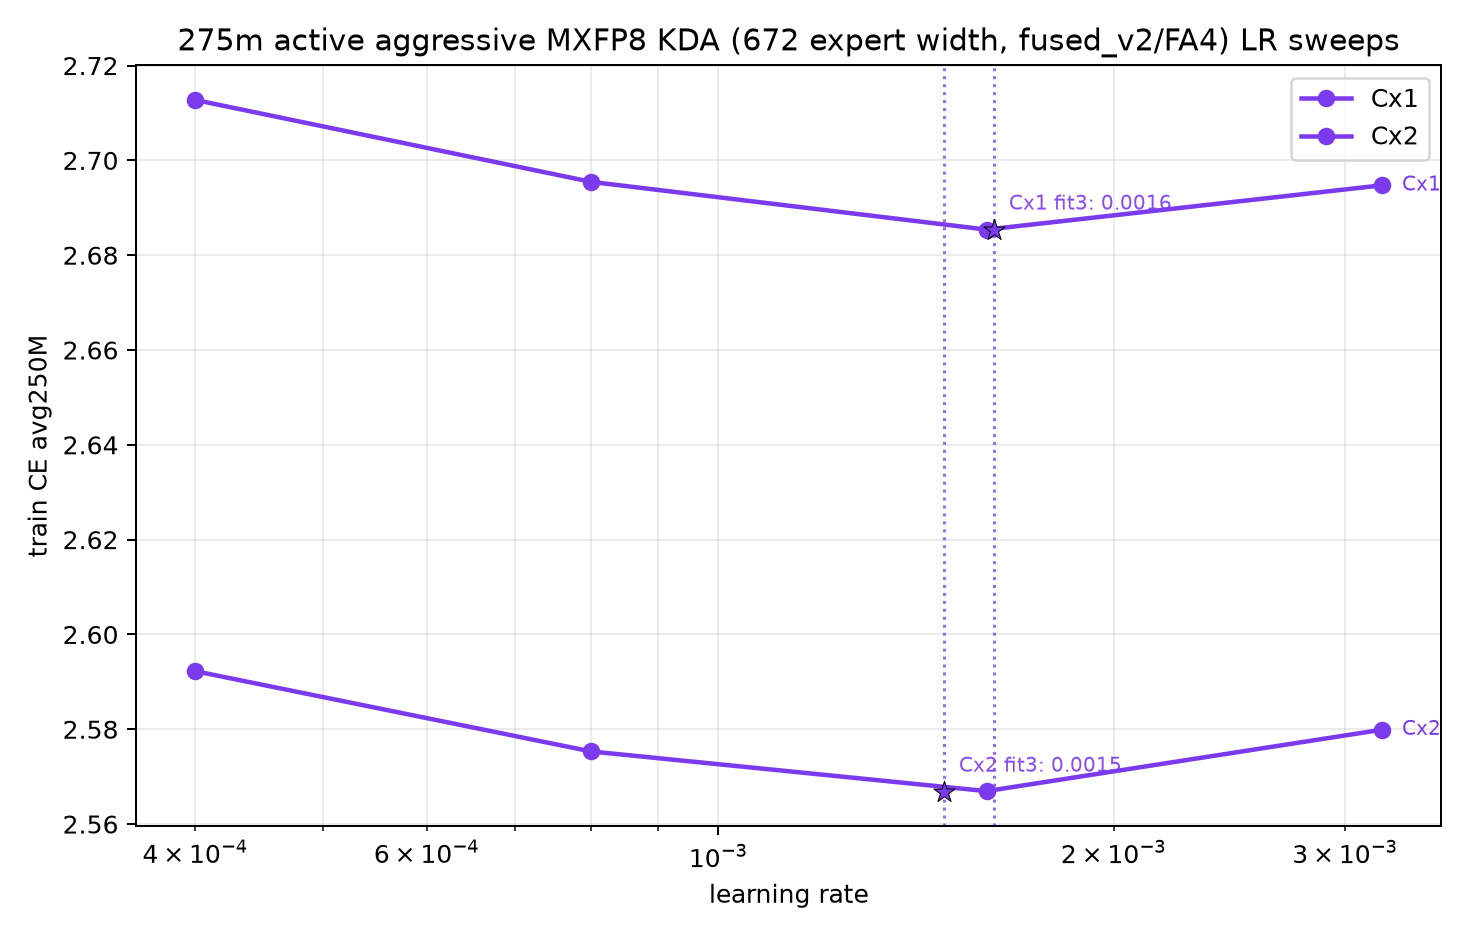
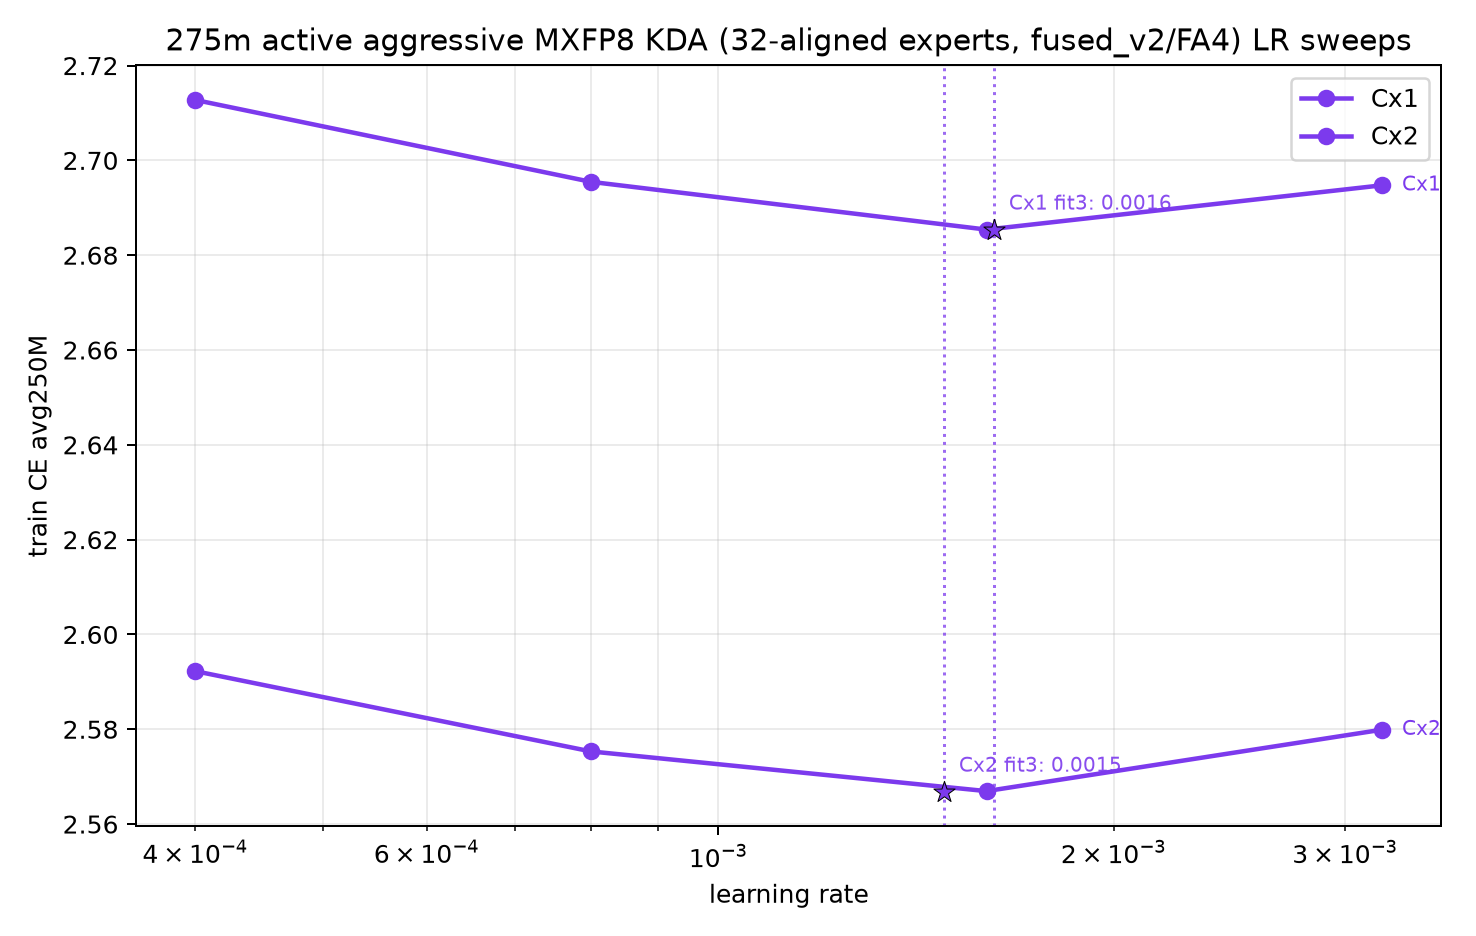
Record 480M MXFP8 production launch

Changed region(s): [[0.0935, 0.031, 0.9661, 0.062]]

diff --git a/src/scripts/train/jacobm_olmoe_ladder/v2/RUNS.md b/src/scripts/train/jacobm_olmoe_ladder/v2/RUNS.md
@@ -8,7 +8,7 @@ job IDs and W&B IDs once they exist. Detailed migration-era DDP jobs remain in
 
 Rows are updated as their corresponding collectors run; detailed sections
 retain the full launch and retry history. The canonical GDN2/KDA, new KDA
-transfer, MXFP8, and validation rows were refreshed at 2026-07-28 05:53 UTC.
+transfer, MXFP8, and validation rows were refreshed at 2026-07-28 05:56 UTC.
 
 | Stage | Family / cell | State | Progress / result | Current W&B |
 |---|---|---|---|---|
@@ -34,6 +34,7 @@ transfer, MXFP8, and validation rows were refreshed at 2026-07-28 05:53 UTC.
 | pretraining | canonical KDA 480M stability transfer | 4/4 finished | Cx1/2/4/8 strict final-250M CEs are `2.517826`, `2.412884`, `2.323228`, and `2.237558` | [launches](#canonical-kda-480m-stability-transfer) |
 | pretraining | KDA `expand_v=2`, negative-eigenvalue transfer (275M/480M/810M/1.2B) | 11 finished / 5 running | 810M Cx4 finished at strict final-250M CE `2.158207`; 810M Cx8 and all four balanced 1.2B rowwise jobs are running, with no failures in this KDA family | [results](results/pretraining/canonical_gdn2_kda/kda_ev2_neg_scale_results.md) / [launches](#kda-expand_v2-negative-eigenvalue-transfer) |
 | pretraining | aggressive MXFP8 KDA 275M LR sweep | Cx1/Cx2 8/8 finished; Cx4/Cx8 8 running | Observed bests are `2.685399 @ 1.6e-3` and `2.566948 @ 1.6e-3` for Cx1/Cx2; the best-of plot retains finished BF16 KDA scale points across all four model panels while pending cells remain explicit | [results](results/pretraining/kda_mxfp8/results.md) / [work](https://beaker.org/orgs/ai2/workspaces/OLMo-3-moe-experiments/work/01KYJPTZ3J4VHGBH0FSVAQRDGC) |
+| pretraining | aggressive MXFP8 KDA 480M transferred-LR continuation | 4/4 submitted | Cx1/Cx2/Cx4 are running; the two-node Cx8 cell is waiting for both replicas. The exact-name plot registry already contains all four runs. | [launches](#480m-aggressive-mxfp8-kda-transferred-lr-continuation) |
 | throughput | aggressive MXFP8 KDA 480M qualification | 2/2 finished | MB8/8-GPU: 192.7 TFLOPs/GPU, 69.8K TPS/GPU, 146.6/193.2 GiB active/reserved; MB6/16-GPU: 132.5 TFLOPs/GPU, 48.0K TPS/GPU, 111.1/155.7 GiB; zero skipped steps | [one node](https://beaker.org/orgs/ai2/workspaces/OLMo-3-moe-experiments/work/01KYKK27K7N1MVV702AKJ2DST8) / [two nodes](https://beaker.org/orgs/ai2/workspaces/OLMo-3-moe-experiments/work/01KYKK2A58MK03ANV6GAAZPAVG) |
 | diagnostic | GDN2 production-shape PyTorch reference 2x2 | finished | All four `expand_v`/negative-eigenvalue cells passed forward, final-state, backward, packed-document, and recompute/retain comparisons | [work](https://beaker.org/orgs/ai2/workspaces/OLMo-3-moe-experiments/work/01KYBY8DXT5BVM85WYKAT5TXQN) |
 | diagnostic | Matched KDA/GDN2 numerical audit | finished | All 40 one/four-chunk output/state comparisons passed; GDN2 is broadly KDA-like, with localized 3.80% `A_log` relative-L2 error at T256/V256/negative eigvals | [work](https://beaker.org/orgs/ai2/workspaces/OLMo-3-moe-experiments/work/01KYBZX8MHJ611ZSJD43SYS9HZ) / [results](results/diagnostics/matched_kda_gdn2_numerics.md) |
@@ -1112,6 +1113,38 @@ gates, and audited larger-size configurations are recorded in
 [`MXFP8_LADDER.md`](MXFP8_LADDER.md). Add exact W&B IDs here after task
 initialization and use the dedicated MXFP8 plotting family; do not mix these
 runs into the existing BF16 KDA registry by broad display-name matching.
+
+## 480M aggressive MXFP8 KDA transferred-LR continuation
+
+- Model variant: `geometry_matched_kda_ev2_neg_nope_gated_mxfp8_aligned`
+- Manifest:
+  [`launchers/pretraining/manifests/480m_kda_aggressive_mxfp8_full.yaml`](launchers/pretraining/manifests/480m_kda_aggressive_mxfp8_full.yaml)
+- Submission ledger:
+  [`launchers/pretraining/generated/480m_kda_aggressive_mxfp8_full_submissions.json`](launchers/pretraining/generated/480m_kda_aggressive_mxfp8_full_submissions.json)
+- Source commit: `785a87cf0aba6f12d81bf1d7b37b11cb49e6f9ab`
+- Scheduling: urgent unallocated Holmes B300s, `minRuntime: 0m`,
+  nonpreemptible, auto-resuming
+- Precision and architecture: KDA `expand_v=2`, negative eigenvalues, NoPE,
+  gated full attention, EP1, 832-wide aligned experts, rowwise MXFP8 on every
+  shared/routed FFN, MXFP8 QKV/output projections, `moe_fused_v2`,
+  FlashAttention-4, and `OLMO_MXFP8_SCALE_MODE=rceil`
+- Parameters: 496,253,280 active; 419,182,944 active non-embedding;
+  7,151,827,296 stored
+- Checkpointing: rolling ephemeral saves every 500 steps, permanent final
+  checkpoint, no in-loop or on-finish evaluation
+
+| Cx | LR | Global batch | GPUs | Rank MB | Accumulation | Job | Launch state |
+|---:|---:|---:|---:|---:|---:|---|---|
+| 1 | `1.2e-3` | 262,144 | 8 | 4 | 1 | [01KYKMN56Y5PWCE2173E50VV2J](https://beaker.org/orgs/ai2/workspaces/OLMo-3-moe-experiments/work/01KYKMN56Y5PWCE2173E50VV2J) | running |
+| 2 | `9e-4` | 393,216 | 8 | 6 | 1 | [01KYKMN7YPTVTE5WB8T7S8734A](https://beaker.org/orgs/ai2/workspaces/OLMo-3-moe-experiments/work/01KYKMN7YPTVTE5WB8T7S8734A) | running |
+| 4 | `8e-4` | 524,288 | 8 | 8 | 1 | [01KYKMNAS6WKSTKE3S7QZBTXY4](https://beaker.org/orgs/ai2/workspaces/OLMo-3-moe-experiments/work/01KYKMNAS6WKSTKE3S7QZBTXY4) | running |
+| 8 | `8e-4` | 786,432 | 16 | 6 | 1 | [01KYKMNDDJS7D7D9DGC7Y32A43](https://beaker.org/orgs/ai2/workspaces/OLMo-3-moe-experiments/work/01KYKMNDDJS7D7D9DGC7Y32A43) | submitted; waiting for both replicas |
+
+The four exact W&B display names are registered in `plot_kda_mxfp8.py`.
+Consequently the next collection pass will add each finished 480M point to
+the four-size best-of comparison without a plotting-code edit. These are
+single transferred-LR cells, not four-point 480M sweeps, so they belong in the
+best-of plot rather than a 480M U-plot.
 
 ## New wave template
 

diff --git a/src/scripts/train/jacobm_olmoe_ladder/v2/results/pretraining/kda_mxfp8/results.md b/src/scripts/train/jacobm_olmoe_ladder/v2/results/pretraining/kda_mxfp8/results.md
@@ -1,6 +1,6 @@
 # 275M KDA aggressive-MXFP8 comparison
 
-Generated: `2026-07-28T04:52:17.941748+00:00`
+Generated: `2026-07-28T05:58:01.237763+00:00`
 
 Selection metric: final `250M`-token mean training CE. Only finished runs are eligible.
 The optimal-LR summary includes only bracketed 275M sweeps with a valid quadratic fit.
@@ -21,14 +21,14 @@ Fitted LR minima in the 275M U-plot are visual aids and are never used to select
 | Model | Variant | Cx | LR | State | Tokens (B) | Final-window CE | Replay handling | W&B |
 |---|---|---:|---:|---|---:|---:|---|---|
 | 275m | BF16 KDA (expand_v=2, negative eigenvalues; transferred LR) | 1 | 0.0008 | finished | 4.526 | 2.692695 | — | [75dy08n9](https://wandb.ai/ai2-llm/jacobm-olmoe-ladder/runs/75dy08n9) |
-| 275m | aggressive MXFP8 KDA (672 expert width, fused_v2/FA4) | 1 | 0.0004 | finished | 4.553 | 2.712740 | — | [au00v1w9](https://wandb.ai/ai2-llm/jacobm-olmoe-ladder/runs/au00v1w9) |
-| 275m | aggressive MXFP8 KDA (672 expert width, fused_v2/FA4) | 1 | 0.0008 | finished | 4.553 | 2.695471 | local W&B recovery (SHA256 2400c27ea596…) | [uzg7z0t2](https://wandb.ai/ai2-llm/jacobm-olmoe-ladder/runs/uzg7z0t2) |
-| 275m | aggressive MXFP8 KDA (672 expert width, fused_v2/FA4) | 1 | 0.0016 | finished | 4.553 | 2.685399 | — | [6hn2u009](https://wandb.ai/ai2-llm/jacobm-olmoe-ladder/runs/6hn2u009) |
-| 275m | aggressive MXFP8 KDA (672 expert width, fused_v2/FA4) | 1 | 0.0032 | finished | 4.553 | 2.694743 | — | [os58up4x](https://wandb.ai/ai2-llm/jacobm-olmoe-ladder/runs/os58up4x) |
+| 275m | aggressive MXFP8 KDA (32-aligned experts, fused_v2/FA4) | 1 | 0.0004 | finished | 4.553 | 2.712740 | — | [au00v1w9](https://wandb.ai/ai2-llm/jacobm-olmoe-ladder/runs/au00v1w9) |
+| 275m | aggressive MXFP8 KDA (32-aligned experts, fused_v2/FA4) | 1 | 0.0008 | finished | 4.553 | 2.695471 | local W&B recovery (SHA256 2400c27ea596…) | [uzg7z0t2](https://wandb.ai/ai2-llm/jacobm-olmoe-ladder/runs/uzg7z0t2) |
+| 275m | aggressive MXFP8 KDA (32-aligned experts, fused_v2/FA4) | 1 | 0.0016 | finished | 4.553 | 2.685399 | — | [6hn2u009](https://wandb.ai/ai2-llm/jacobm-olmoe-ladder/runs/6hn2u009) |
+| 275m | aggressive MXFP8 KDA (32-aligned experts, fused_v2/FA4) | 1 | 0.0032 | finished | 4.553 | 2.694743 | — | [os58up4x](https://wandb.ai/ai2-llm/jacobm-olmoe-ladder/runs/os58up4x) |
 | 275m | BF16 KDA (expand_v=2, negative eigenvalues; transferred LR) | 2 | 0.0016 | finished | 9.051 | 2.562520 | — | [ysswifrz](https://wandb.ai/ai2-llm/jacobm-olmoe-ladder/runs/ysswifrz) |
-| 275m | aggressive MXFP8 KDA (672 expert width, fused_v2/FA4) | 2 | 0.0004 | finished | 9.106 | 2.592246 | 0 reset(s); 1 duplicate token sample(s) removed | [wgns7v5v](https://wandb.ai/ai2-llm/jacobm-olmoe-ladder/runs/wgns7v5v) |
-| 275m | aggressive MXFP8 KDA (672 expert width, fused_v2/FA4) | 2 | 0.0008 | finished | 9.106 | 2.575318 | 0 reset(s); 1 duplicate token sample(s) removed | [n39xypjm](https://wandb.ai/ai2-llm/jacobm-olmoe-ladder/runs/n39xypjm) |
-| 275m | aggressive MXFP8 KDA (672 expert width, fused_v2/FA4) | 2 | 0.0016 | finished | 9.106 | 2.566948 | 0 reset(s); 1 duplicate token sample(s) removed | [x1fah0f5](https://wandb.ai/ai2-llm/jacobm-olmoe-ladder/runs/x1fah0f5) |
-| 275m | aggressive MXFP8 KDA (672 expert width, fused_v2/FA4) | 2 | 0.0032 | finished | 9.106 | 2.579905 | 0 reset(s); 1 duplicate token sample(s) removed | [mcehf9yi](https://wandb.ai/ai2-llm/jacobm-olmoe-ladder/runs/mcehf9yi) |
+| 275m | aggressive MXFP8 KDA (32-aligned experts, fused_v2/FA4) | 2 | 0.0004 | finished | 9.106 | 2.592246 | 0 reset(s); 1 duplicate token sample(s) removed | [wgns7v5v](https://wandb.ai/ai2-llm/jacobm-olmoe-ladder/runs/wgns7v5v) |
+| 275m | aggressive MXFP8 KDA (32-aligned experts, fused_v2/FA4) | 2 | 0.0008 | finished | 9.106 | 2.575318 | 0 reset(s); 1 duplicate token sample(s) removed | [n39xypjm](https://wandb.ai/ai2-llm/jacobm-olmoe-ladder/runs/n39xypjm) |
+| 275m | aggressive MXFP8 KDA (32-aligned experts, fused_v2/FA4) | 2 | 0.0016 | finished | 9.106 | 2.566948 | 0 reset(s); 1 duplicate token sample(s) removed | [x1fah0f5](https://wandb.ai/ai2-llm/jacobm-olmoe-ladder/runs/x1fah0f5) |
+| 275m | aggressive MXFP8 KDA (32-aligned experts, fused_v2/FA4) | 2 | 0.0032 | finished | 9.106 | 2.579905 | 0 reset(s); 1 duplicate token sample(s) removed | [mcehf9yi](https://wandb.ai/ai2-llm/jacobm-olmoe-ladder/runs/mcehf9yi) |
 | 275m | BF16 KDA (expand_v=2, negative eigenvalues; transferred LR) | 4 | 0.0008 | finished | 18.103 | 2.464247 | 0 reset(s); 1 duplicate token sample(s) removed | [cyyeyven](https://wandb.ai/ai2-llm/jacobm-olmoe-ladder/runs/cyyeyven) |
 | 275m | BF16 KDA (expand_v=2, negative eigenvalues; transferred LR) | 8 | 0.0008 | finished | 36.205 | 2.380273 | 0 reset(s); 1 duplicate token sample(s) removed | [vrjssy6q](https://wandb.ai/ai2-llm/jacobm-olmoe-ladder/runs/vrjssy6q) |

diff --git a/src/scripts/train/jacobm_olmoe_ladder/v2/MXFP8_LADDER.md b/src/scripts/train/jacobm_olmoe_ladder/v2/MXFP8_LADDER.md
@@ -155,6 +155,16 @@ less resource-efficient than the one-node layout, but it remains the selected
 wall-clock layout because 16 devices provide more aggregate throughput than
 the corresponding eight-device run.
 
+The four 480M production cells were submitted on 2026-07-28 from commit
+`785a87cf0aba6f12d81bf1d7b37b11cb49e6f9ab`. They use the transferred wide
+LRs and qualified layouts above: Cx1 `1.2e-3`/8 GPUs/MB4, Cx2
+`9e-4`/8 GPUs/MB6, Cx4 `8e-4`/8 GPUs/MB8, and Cx8 `8e-4`/16 GPUs/MB6. This is
+40 GPUs at full concurrency. Exact launch records live in
+[`launchers/pretraining/generated/480m_kda_aggressive_mxfp8_full_submissions.json`](launchers/pretraining/generated/480m_kda_aggressive_mxfp8_full_submissions.json),
+and all four exact display names are already registered in
+[`plot_kda_mxfp8.py`](plot_kda_mxfp8.py) so finished cells flow into the
+four-size best-of plot on the next collector run.
+
 ## Proposed KDA continuation strategy
 
 If the 275M aggressive-MXFP8 curves remain stable and competitive, make the
